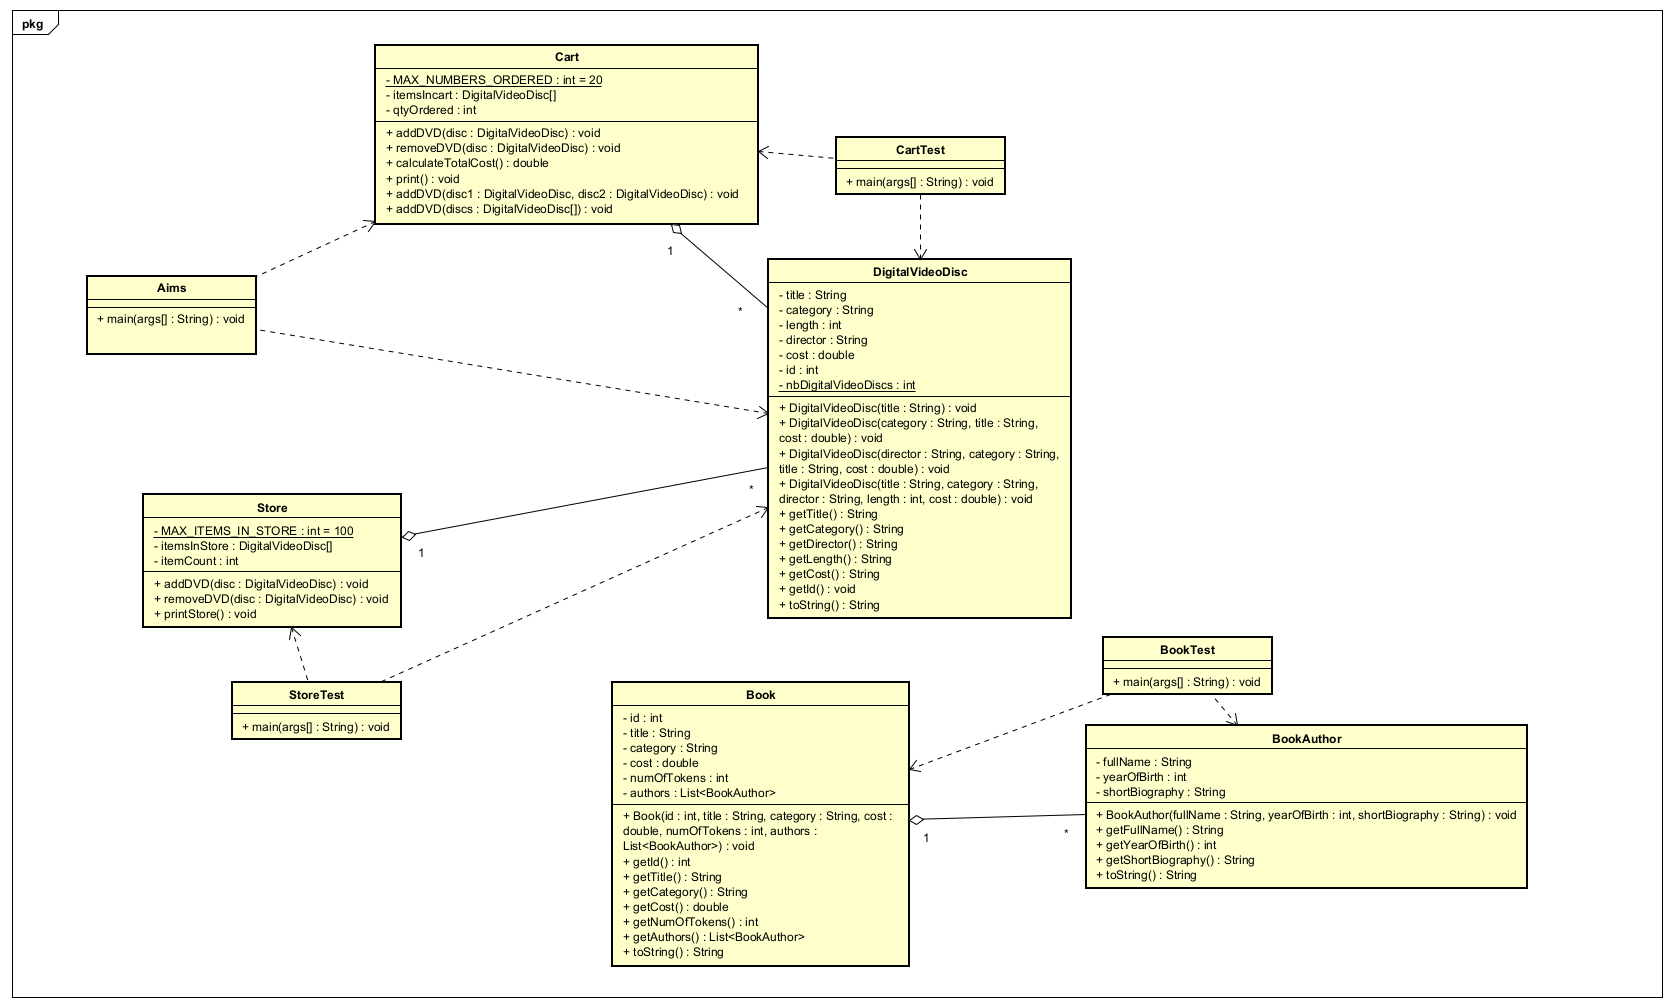
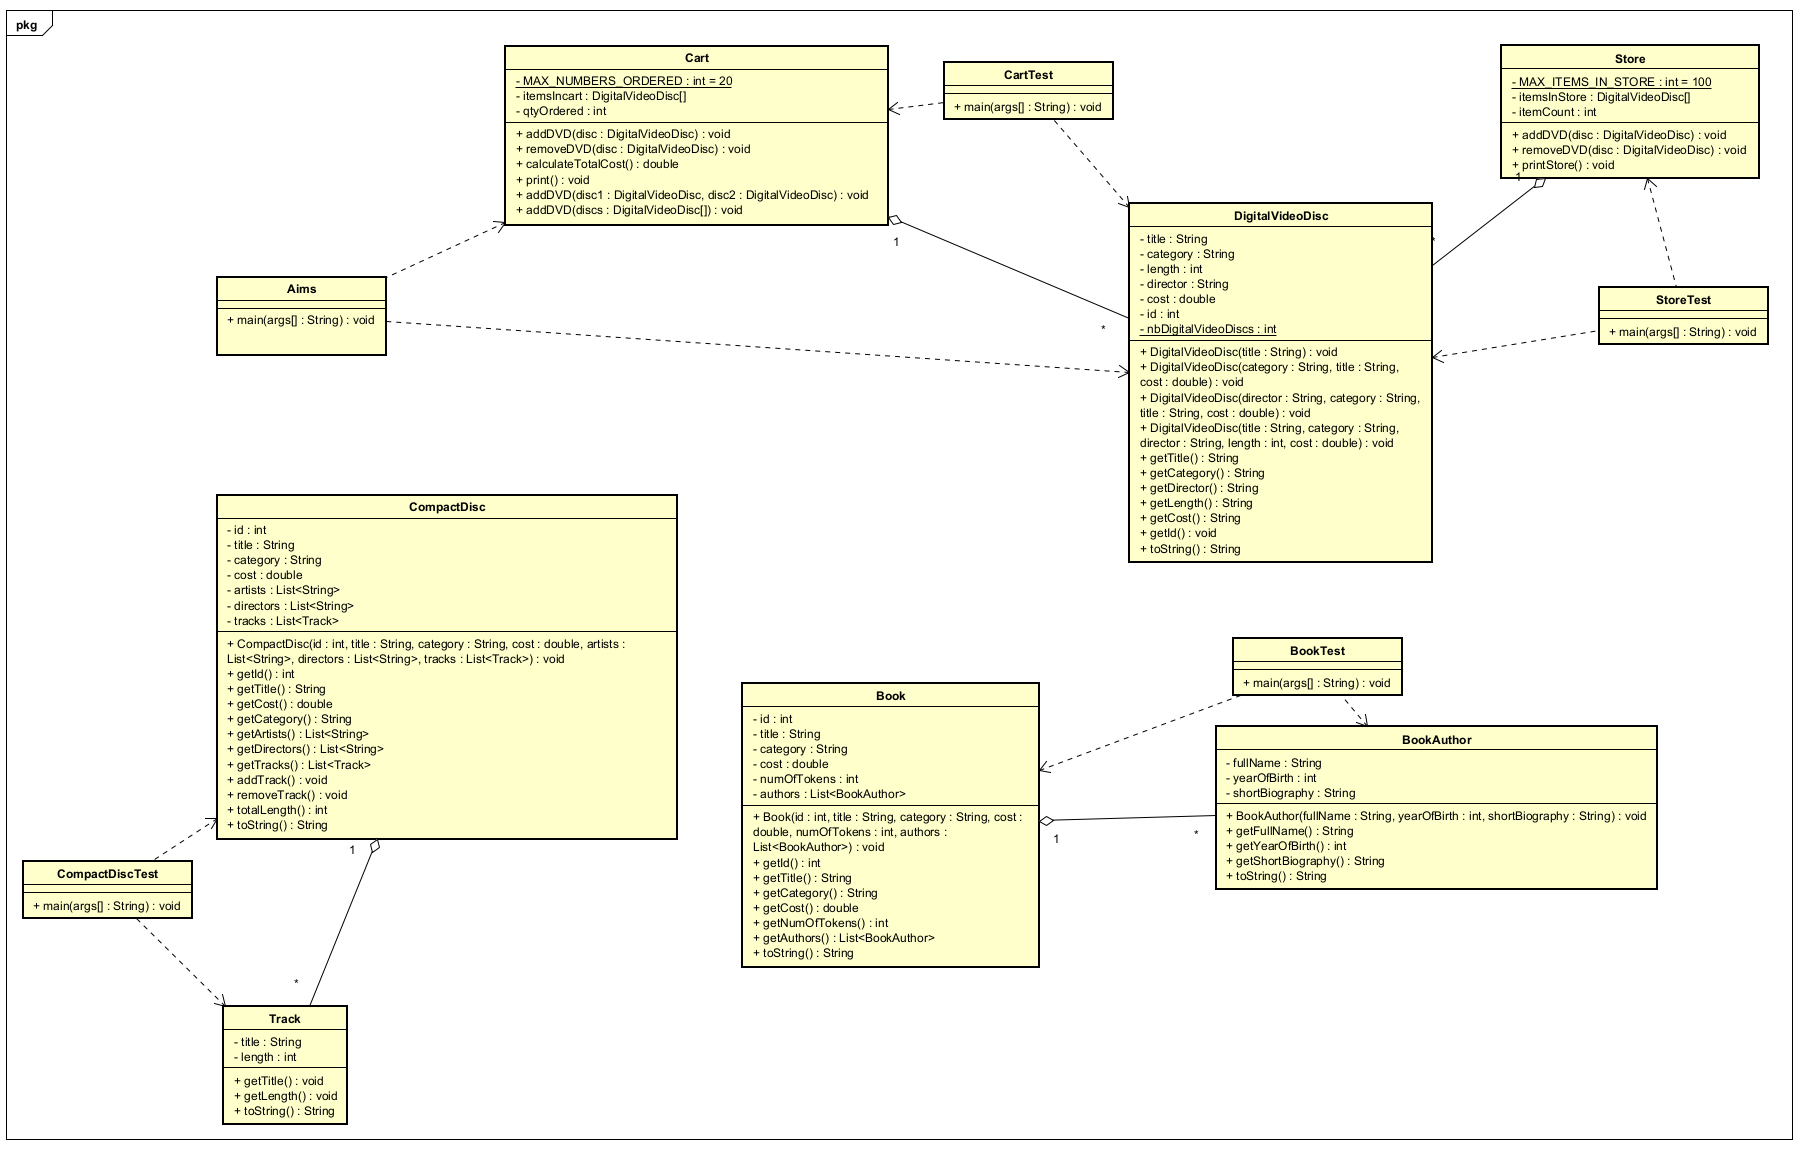
CD and CDTest

diff --git a/AimsProject/AimsProject/src/com/hust/kstn/models/CompactDisc.java b/AimsProject/AimsProject/src/com/hust/kstn/models/CompactDisc.java
@@ -1,0 +1,92 @@
+package com.hust.kstn.models;
+
+import java.util.ArrayList;
+import java.util.List;
+
+public class CompactDisc {
+    
+    private int id;
+    private String title;
+    private String category;
+    private double cost;
+    private List<String> artists = new ArrayList<>();
+    private List<String> directors = new ArrayList<>();
+    
+    private List<Track> tracks = new ArrayList<>();
+
+    public CompactDisc(int id, String title, String category, double cost, List<String> artists, List<String> directors, List<Track> tracks) {
+        this.id = id;
+        this.title = title;
+        this.category = category;
+        this.cost = cost;
+        this.artists = artists;
+        this.directors = directors;
+        this.tracks = tracks; 
+    }
+
+    public int getId() {
+        return id;
+    }
+
+    public String getTitle() {
+        return title;
+    }
+
+    public double getCost() {
+        return cost;
+    }
+    
+    public String getCategory(){
+    	return category;
+    }
+
+    public List<String> getArtists() {
+        return artists;
+    }
+    
+    public List<String> getDirectors() {
+        return directors;
+    }
+    
+    public List<Track> getTracks(){
+    	return tracks;
+    }
+
+    public void addTrack(Track track) {
+        if (tracks.contains(track)) {
+            System.out.println("Error: Track '" + track.getTitle() + "' already exists in this CD.");
+        } else {
+            tracks.add(track);
+            System.out.println("Track '" + track.getTitle() + "' added successfully.");
+        }
+    }
+
+    public void removeTrack(Track track) {
+        if (!tracks.contains(track)) {
+            System.out.println("Error: Track '" + track.getTitle() + "' does not exist in this CD.");
+        } else {
+            tracks.remove(track);
+            System.out.println("Track '" + track.getTitle() + "' removed successfully.");
+        }
+    }
+
+    public int totalLength() {
+        int total = 0;
+        for (Track track : tracks) {
+            total += track.getLength();
+        }
+        return total;
+    }
+
+    @Override
+    public String toString() {
+        return "CD [" + this.id + "][" 
+             + this.title + "][" 
+             + this.category + "]["
+             + this.cost + "]"
+             + "\nDirectors: " + this.directors
+             + "\nArtists: " + this.artists
+             + "\nTotal Length: " + totalLength()
+             + "\nTracks: " + this.tracks;
+    }
+}

diff --git a/AimsProject/AimsProject/src/com/hust/kstn/test/CompactDiscTest.java b/AimsProject/AimsProject/src/com/hust/kstn/test/CompactDiscTest.java
@@ -1,0 +1,58 @@
+package com.hust.kstn.test;
+
+import com.hust.kstn.models.CompactDisc;
+import com.hust.kstn.models.Track;
+import java.util.ArrayList;
+import java.util.List;
+
+public class CompactDiscTest {
+    public static void main(String[] args) {
+        
+    	List<String> directors = new ArrayList<>();
+        directors.add("Quincy Jones");
+        directors.add("Steve Barron");
+
+        List<String> artists = new ArrayList<>();
+        artists.add("Michael Jackson");
+
+        Track track1 = new Track("Thriller", 6);
+        Track track2 = new Track("Beat It", 4);
+        Track track3 = new Track("Billie Jean", 5);
+
+        List<Track> initialTracks = new ArrayList<>();
+        initialTracks.add(track1);
+        initialTracks.add(track2);
+        initialTracks.add(track3);
+
+        CompactDisc cd = new CompactDisc(
+            1, 
+            "Thriller",
+            "Pop", 
+            15.0, 
+            artists, 
+            directors, 
+            initialTracks 
+        );
+
+        System.out.println("--- CD Details ---");
+        System.out.println(cd);
+        System.out.println("Total Length: " + cd.totalLength());
+
+
+        System.out.println("\n--- Adding new track ---");
+        Track track4 = new Track("Smooth Criminal", 4);
+        cd.addTrack(track4);
+        System.out.println(cd);
+
+
+        System.out.println("\n--- Adding existing track ---");
+        cd.addTrack(track2);
+
+        System.out.println("\n--- Removing a track ---");
+        cd.removeTrack(track2);
+        System.out.println(cd);
+
+        System.out.println("\n--- Removing that track again ---");
+        cd.removeTrack(track2);
+    }
+}

diff --git a/AimsProject/AimsProject/src/com/hust/kstn/models/Track.java b/AimsProject/AimsProject/src/com/hust/kstn/models/Track.java
@@ -1,0 +1,23 @@
+package com.hust.kstn.models;
+
+public class Track {
+    private String title;
+    private int length;
+
+    public Track(String title, int length) {
+        this.title = title;
+        this.length = length;
+    }
+
+    public String getTitle() {
+        return title;
+    }
+
+    public int getLength() {
+        return length;
+    }
+    @Override
+    public String toString() {
+        return "\n  - Track: " + this.title + ", Length: " + this.length;
+    }
+}
